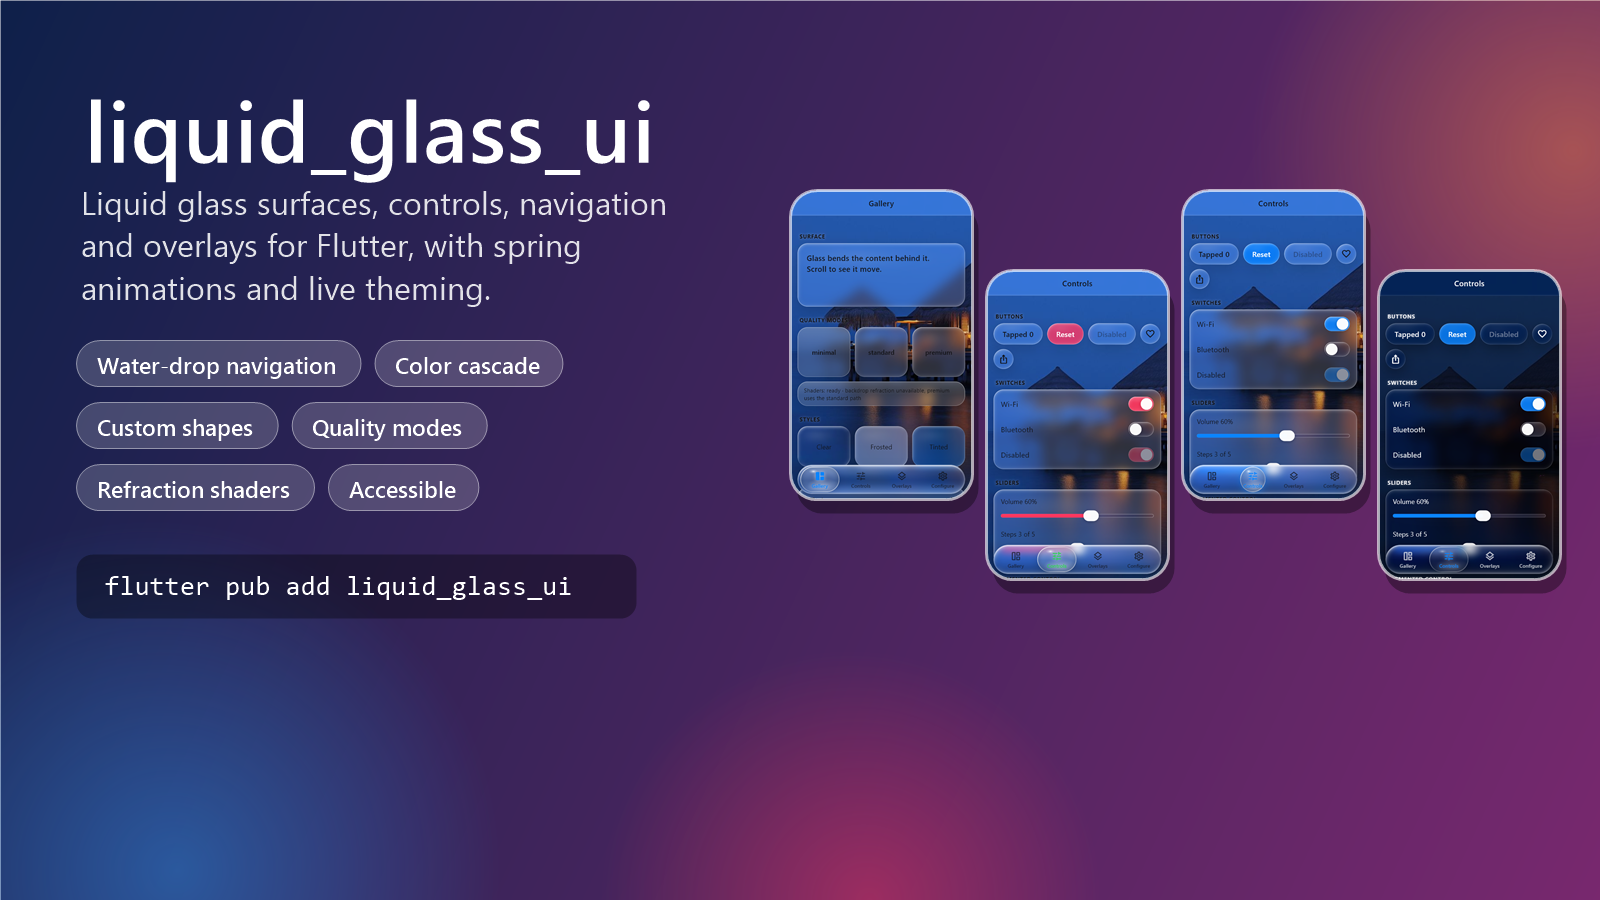
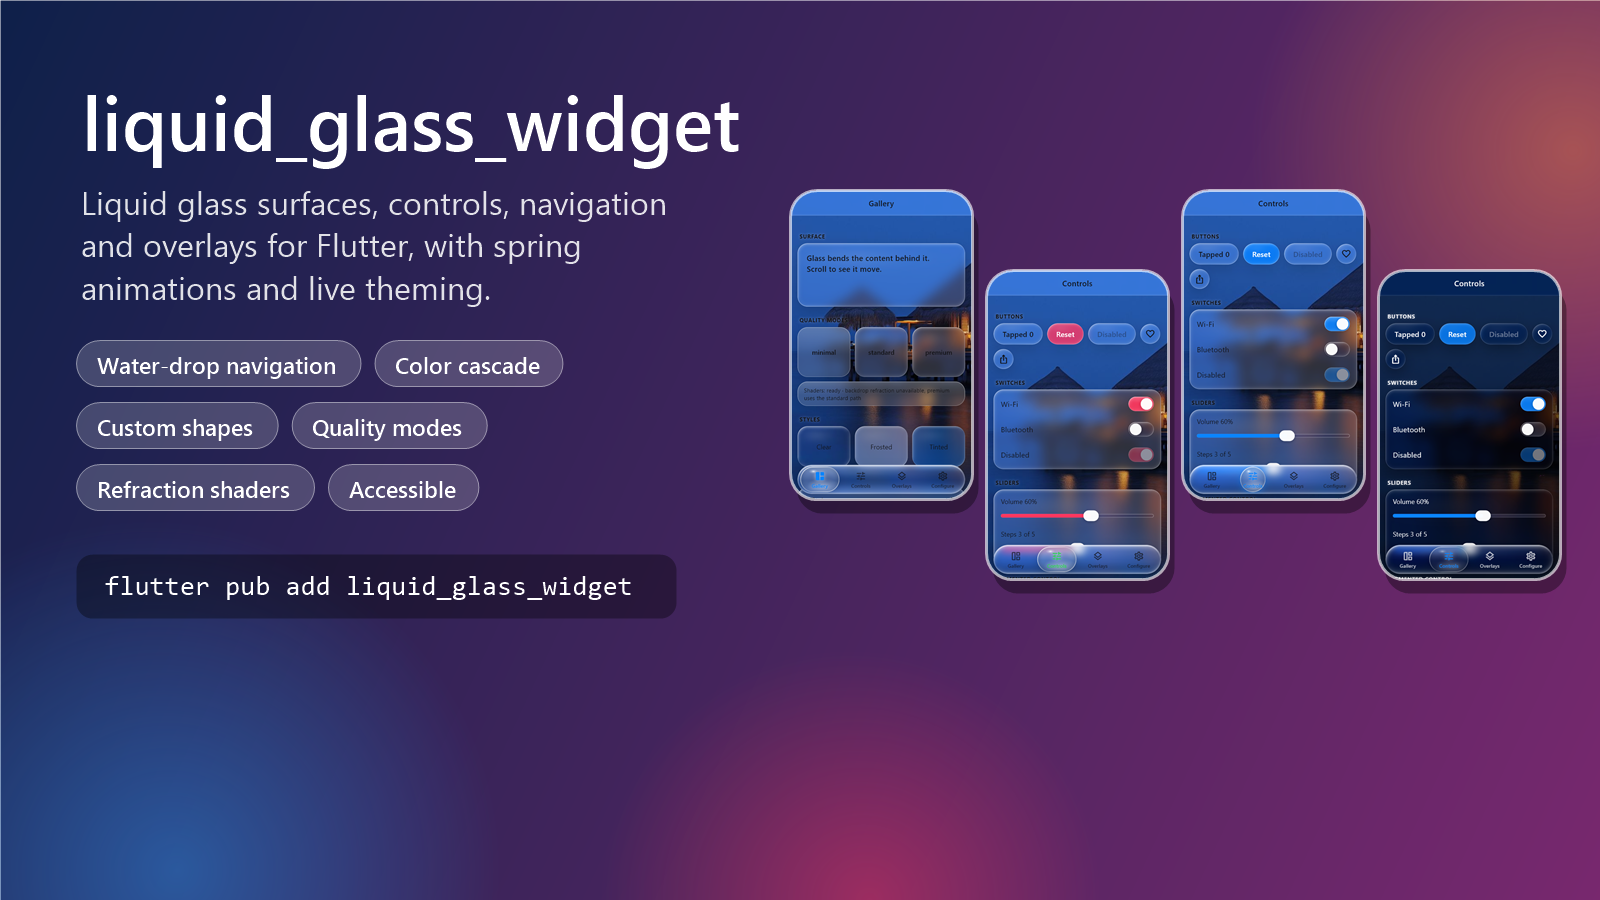
Rename package to liquid_glass_widget
liquid_glass_ui on pub.dev cannot be updated from this account, so the package is published under a new name. Renames the package, library, imports, shader asset paths, example app identifiers, repository links and banner, and documents migration from liquid_glass_ui.

Changed region(s): [[0.0312, 0.0933, 0.4688, 0.2178], [0.3438, 0.6222, 0.4375, 0.6844]]

diff --git a/lib/src/shaders/liquid_glass_shaders.dart b/lib/src/shaders/liquid_glass_shaders.dart
@@ -37,7 +37,7 @@ enum LiquidGlassShaderStatus {
 abstract final class LiquidGlassShaders {
   static const String _lightingName = 'shaders/glass_lighting.frag';
   static const String _refractionName = 'shaders/glass_refraction.frag';
-  static const String _packagePrefix = 'packages/liquid_glass_ui/';
+  static const String _packagePrefix = 'packages/liquid_glass_widget/';
 
   static final ValueNotifier<LiquidGlassShaderStatus> _status =
       ValueNotifier<LiquidGlassShaderStatus>(LiquidGlassShaderStatus.notLoaded);
@@ -96,7 +96,7 @@ abstract final class LiquidGlassShaders {
         FlutterErrorDetails(
           exception: error,
           stack: stack,
-          library: 'liquid_glass_ui',
+          library: 'liquid_glass_widget',
           context: ErrorDescription(
             'while loading liquid glass shaders; surfaces will use the '
             'canvas fallback',
@@ -106,7 +106,7 @@ abstract final class LiquidGlassShaders {
     }
   }
 
-  /// Shader assets are keyed with a `packages/liquid_glass_ui/` prefix when
+  /// Shader assets are keyed with a `packages/liquid_glass_widget/` prefix when
   /// the package is a dependency, and without it when this package is the
   /// root project (its own tests). The manifest tells us which one exists.
   static Future<String> _resolvePrefix() async {
@@ -121,7 +121,7 @@ abstract final class LiquidGlassShaders {
       return '';
     }
     throw StateError(
-      'liquid_glass_ui shader assets were not found in the asset manifest. '
+      'liquid_glass_widget shader assets were not found in the asset manifest. '
       'Make sure the package is a regular pub dependency so its `shaders:` '
       'section is bundled.',
     );

diff --git a/test/surface_test.dart b/test/surface_test.dart
@@ -1,7 +1,7 @@
 import 'package:flutter/material.dart';
 import 'package:flutter_test/flutter_test.dart';
-import 'package:liquid_glass_ui/liquid_glass_ui.dart';
-import 'package:liquid_glass_ui/src/rendering/glass_painters.dart';
+import 'package:liquid_glass_widget/liquid_glass_widget.dart';
+import 'package:liquid_glass_widget/src/rendering/glass_painters.dart';
 
 import 'helpers.dart';
 
@@ -232,7 +232,7 @@ void main() {
     });
 
     testWidgets('legacy import path still works', (tester) async {
-      // The 0.x import `package:liquid_glass_ui/widgets/liquid_glass_container.dart`
+      // The 0.x import `package:liquid_glass_widget/widgets/liquid_glass_container.dart`
       // is exercised by legacy_import_test.dart.
       expect(LiquidGlassContainer, isNotNull);
     });

diff --git a/example/test/widget_test.dart b/example/test/widget_test.dart
@@ -1,9 +1,9 @@
 import 'package:flutter/material.dart';
 import 'package:flutter_test/flutter_test.dart';
-import 'package:liquid_glass_ui/liquid_glass_ui.dart';
-import 'package:liquid_glass_ui_example/demo_config.dart';
-import 'package:liquid_glass_ui_example/main.dart';
-import 'package:liquid_glass_ui_example/pages/gallery_page.dart';
+import 'package:liquid_glass_widget/liquid_glass_widget.dart';
+import 'package:liquid_glass_widget_example/demo_config.dart';
+import 'package:liquid_glass_widget_example/main.dart';
+import 'package:liquid_glass_widget_example/pages/gallery_page.dart';
 
 void main() {
   Future<void> pumpApp(WidgetTester tester, DemoConfig config) async {

diff --git a/example/lib/main.dart b/example/lib/main.dart
@@ -1,5 +1,5 @@
 import 'package:flutter/material.dart';
-import 'package:liquid_glass_ui/liquid_glass_ui.dart';
+import 'package:liquid_glass_widget/liquid_glass_widget.dart';
 
 import 'demo_config.dart';
 import 'pages/controls_page.dart';
@@ -24,7 +24,7 @@ class LiquidGlassDemoApp extends StatelessWidget {
           data: config.themeFor(Brightness.light),
           darkData: config.themeFor(Brightness.dark),
           child: MaterialApp(
-            title: 'Liquid Glass UI',
+            title: 'Liquid Glass Widget',
             debugShowCheckedModeBanner: false,
             themeMode: config.themeMode,
             theme: ThemeData(

diff --git a/example/web/index.html b/example/web/index.html
@@ -23,13 +23,13 @@
   <!-- iOS meta tags & icons -->
   <meta name="mobile-web-app-capable" content="yes">
   <meta name="apple-mobile-web-app-status-bar-style" content="black">
-  <meta name="apple-mobile-web-app-title" content="liquid_glass_ui">
+  <meta name="apple-mobile-web-app-title" content="liquid_glass_widget">
   <link rel="apple-touch-icon" href="icons/Icon-192.png">
 
   <!-- Favicon -->
   <link rel="icon" type="image/png" href="favicon.png"/>
 
-  <title>liquid_glass_ui</title>
+  <title>liquid_glass_widget</title>
   <link rel="manifest" href="manifest.json">
 </head>
 <body>

diff --git a/lib/widgets/liquid_glass_container.dart b/lib/widgets/liquid_glass_container.dart
@@ -7,7 +7,8 @@ import '../src/widgets/liquid_glass_surface.dart';
 
 /// A widget that applies a frosted glass effect to its child.
 ///
-/// This is the original widget of `liquid_glass_ui` and keeps its 0.x API:
+/// This is the original widget of the package (published as
+/// `liquid_glass_ui` 0.x) and keeps its API:
 /// [blur], [opacity], [padding] and [borderRadius] behave as before (a white
 /// tint at [opacity] over a backdrop blurred with sigma [blur], with 16 px
 /// corners by default).

diff --git a/test/navigation_overlay_test.dart b/test/navigation_overlay_test.dart
@@ -4,8 +4,8 @@
 import 'package:flutter/material.dart';
 import 'package:flutter/services.dart';
 import 'package:flutter_test/flutter_test.dart';
-import 'package:liquid_glass_ui/liquid_glass_ui.dart';
-import 'package:liquid_glass_ui/src/overlays/liquid_glass_overlays.dart'
+import 'package:liquid_glass_widget/liquid_glass_widget.dart';
+import 'package:liquid_glass_widget/src/overlays/liquid_glass_overlays.dart'
     show glassMorphDestination;
 
 import 'helpers.dart';

diff --git a/test/legacy_import_test.dart b/test/legacy_import_test.dart
@@ -1,7 +1,7 @@
 import 'package:flutter/widgets.dart';
 import 'package:flutter_test/flutter_test.dart';
-// The import path published in 0.1.0 - 0.4.0.
-import 'package:liquid_glass_ui/widgets/liquid_glass_container.dart';
+// The import path of liquid_glass_ui 0.1.0 - 0.4.0, under the new name.
+import 'package:liquid_glass_widget/widgets/liquid_glass_container.dart';
 
 void main() {
   testWidgets('0.x import path exposes LiquidGlassContainer', (tester) async {

diff --git a/example/lib/pages/gallery_page.dart b/example/lib/pages/gallery_page.dart
@@ -1,7 +1,8 @@
 import 'package:flutter/material.dart';
-import 'package:liquid_glass_ui/liquid_glass_ui.dart';
+import 'package:liquid_glass_widget/liquid_glass_widget.dart';
 // The 0.x import path keeps working.
-import 'package:liquid_glass_ui/widgets/liquid_glass_container.dart' as legacy;
+import 'package:liquid_glass_widget/widgets/liquid_glass_container.dart'
+    as legacy;
 
 import '../main.dart';
 import 'section.dart';

diff --git a/test/style_and_config_test.dart b/test/style_and_config_test.dart
@@ -3,8 +3,8 @@
 
 import 'package:flutter/material.dart';
 import 'package:flutter_test/flutter_test.dart';
-import 'package:liquid_glass_ui/liquid_glass_ui.dart';
-import 'package:liquid_glass_ui/src/rendering/backdrop_filters.dart';
+import 'package:liquid_glass_widget/liquid_glass_widget.dart';
+import 'package:liquid_glass_widget/src/rendering/backdrop_filters.dart';
 
 void main() {
   group('LiquidGlassStyle', () {

diff --git a/lib/src/rendering/refractive_backdrop.dart b/lib/src/rendering/refractive_backdrop.dart
@@ -191,7 +191,7 @@ class RenderRefractiveBackdrop extends RenderProxyBox {
         FlutterErrorDetails(
           exception: error,
           stack: stack,
-          library: 'liquid_glass_ui',
+          library: 'liquid_glass_widget',
           context: ErrorDescription(
             'while creating the refraction filter; premium refraction is '
             'disabled and surfaces fall back to standard quality',

diff --git a/test/golden_test.dart b/test/golden_test.dart
@@ -5,7 +5,7 @@ import 'dart:io';
 
 import 'package:flutter/material.dart';
 import 'package:flutter_test/flutter_test.dart';
-import 'package:liquid_glass_ui/liquid_glass_ui.dart';
+import 'package:liquid_glass_widget/liquid_glass_widget.dart';
 
 // Goldens are rasterised by the host's software renderer and differ slightly
 // between operating systems; the reference images were generated on Windows.
